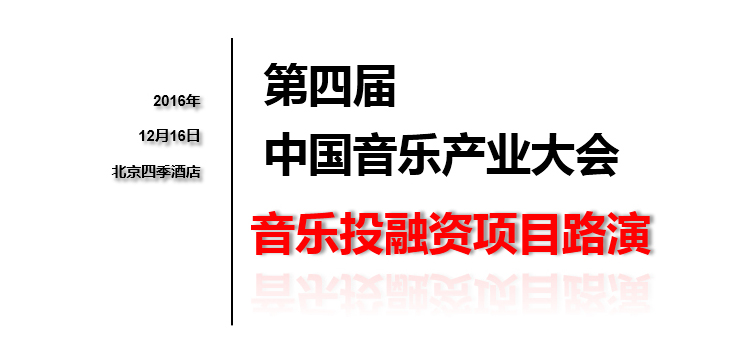
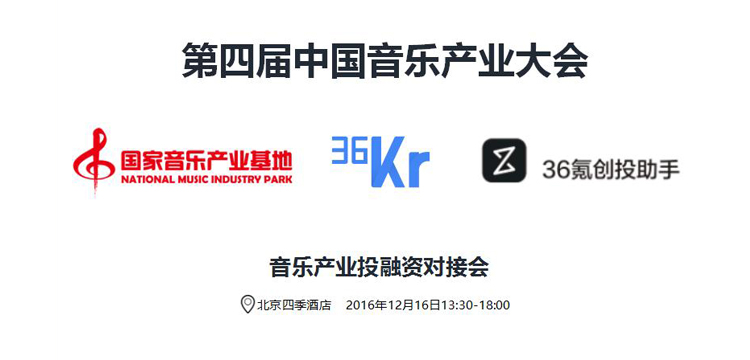
fix: 音乐大会更改头图 文案

diff --git a/src/templates/activity/musicRoadshow.html b/src/templates/activity/musicRoadshow.html
@@ -3,7 +3,7 @@
     <div class="section-content">
         <div class="section-one">
             <h1>第四届中国音乐产业大会投融资项目路演</h1>
-            <h2>36氪创投助手独家招募投资人</h2>
+            <h2>36氪创投助手独家招募投资人与项目方</h2>
         </div>
         <div class="section-one">
             <p>
@@ -66,6 +66,15 @@
             <div class="section-line">
                 <span class="section-time">17:00—18:00</span>
                 <span class="section-info">商务交流</span>
+            </div>
+        </div>
+        <div class="section-one">
+            <h3>活动报名方式：</h3>
+            <div class="section-line">
+                <p>【投资人】请直接点击以下报名按钮，填写相关信息</p>
+            </div>
+            <div class="section-line">
+                <p>【项目方】请将项目名称+创始人姓名+创始人联系方式+项目BP发送至geili@36kr.com</p>
             </div>
         </div>
         <div class="section-one">

diff --git a/src/scripts/controllers/activity/activityIndexController.js b/src/scripts/controllers/activity/activityIndexController.js
@@ -40,8 +40,8 @@ function ActivityIndexController($stateParams, FindService, $state, UserService,
             window.WEIXINSHARE.shareTitle = '创投助手 x 赛石杯第三届IdeaBank全国泛大学生创业大赛';
         } else if (vm.activityName === 'wonderland20161205') {
             window.WEIXINSHARE.shareTitle = '36氪创投助手*WISE，来史上最炫娃娃机领取最搞怪“娃娃”！胆大者来！';
-        } else if (vm.activityName === 'musicRoadshow20161206') {
-            window.WEIXINSHARE.shareTitle = '第四届中国音乐产业大会投融资项目路演-36氪创投助手独家招募投资人';
+        } else if (vm.activityName.indexOf('musicRoadshow20161206') > -1) {
+            window.WEIXINSHARE.shareTitle = '第四届中国音乐产业大会投融资项目路演--36氪创投助手独家招募投资人与项目方';
         }
 
         var obj = {};
